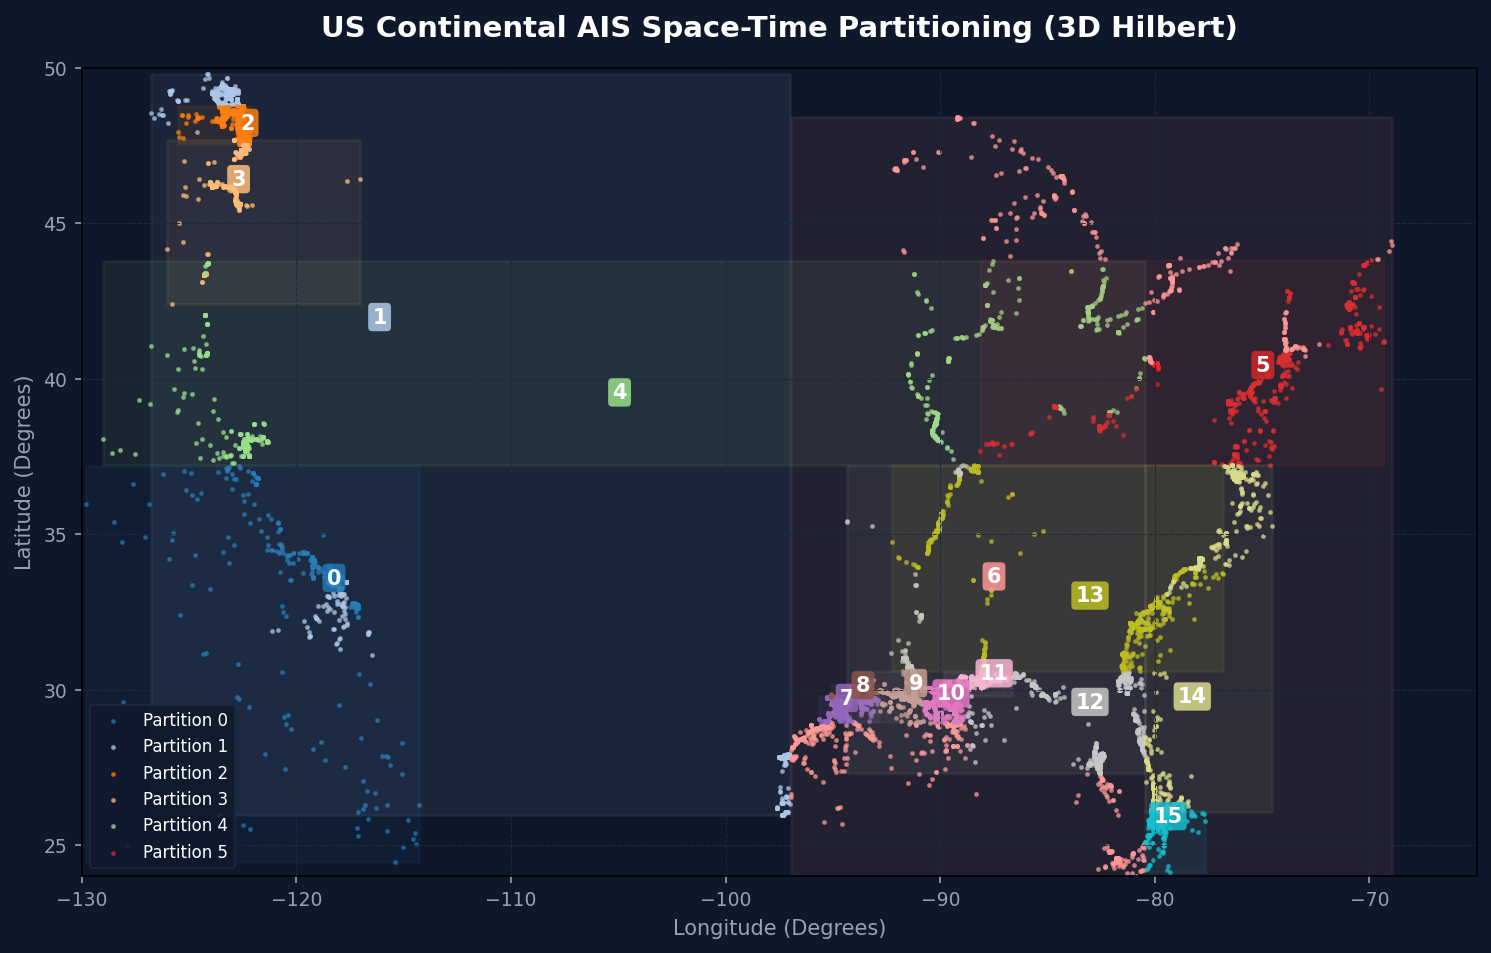
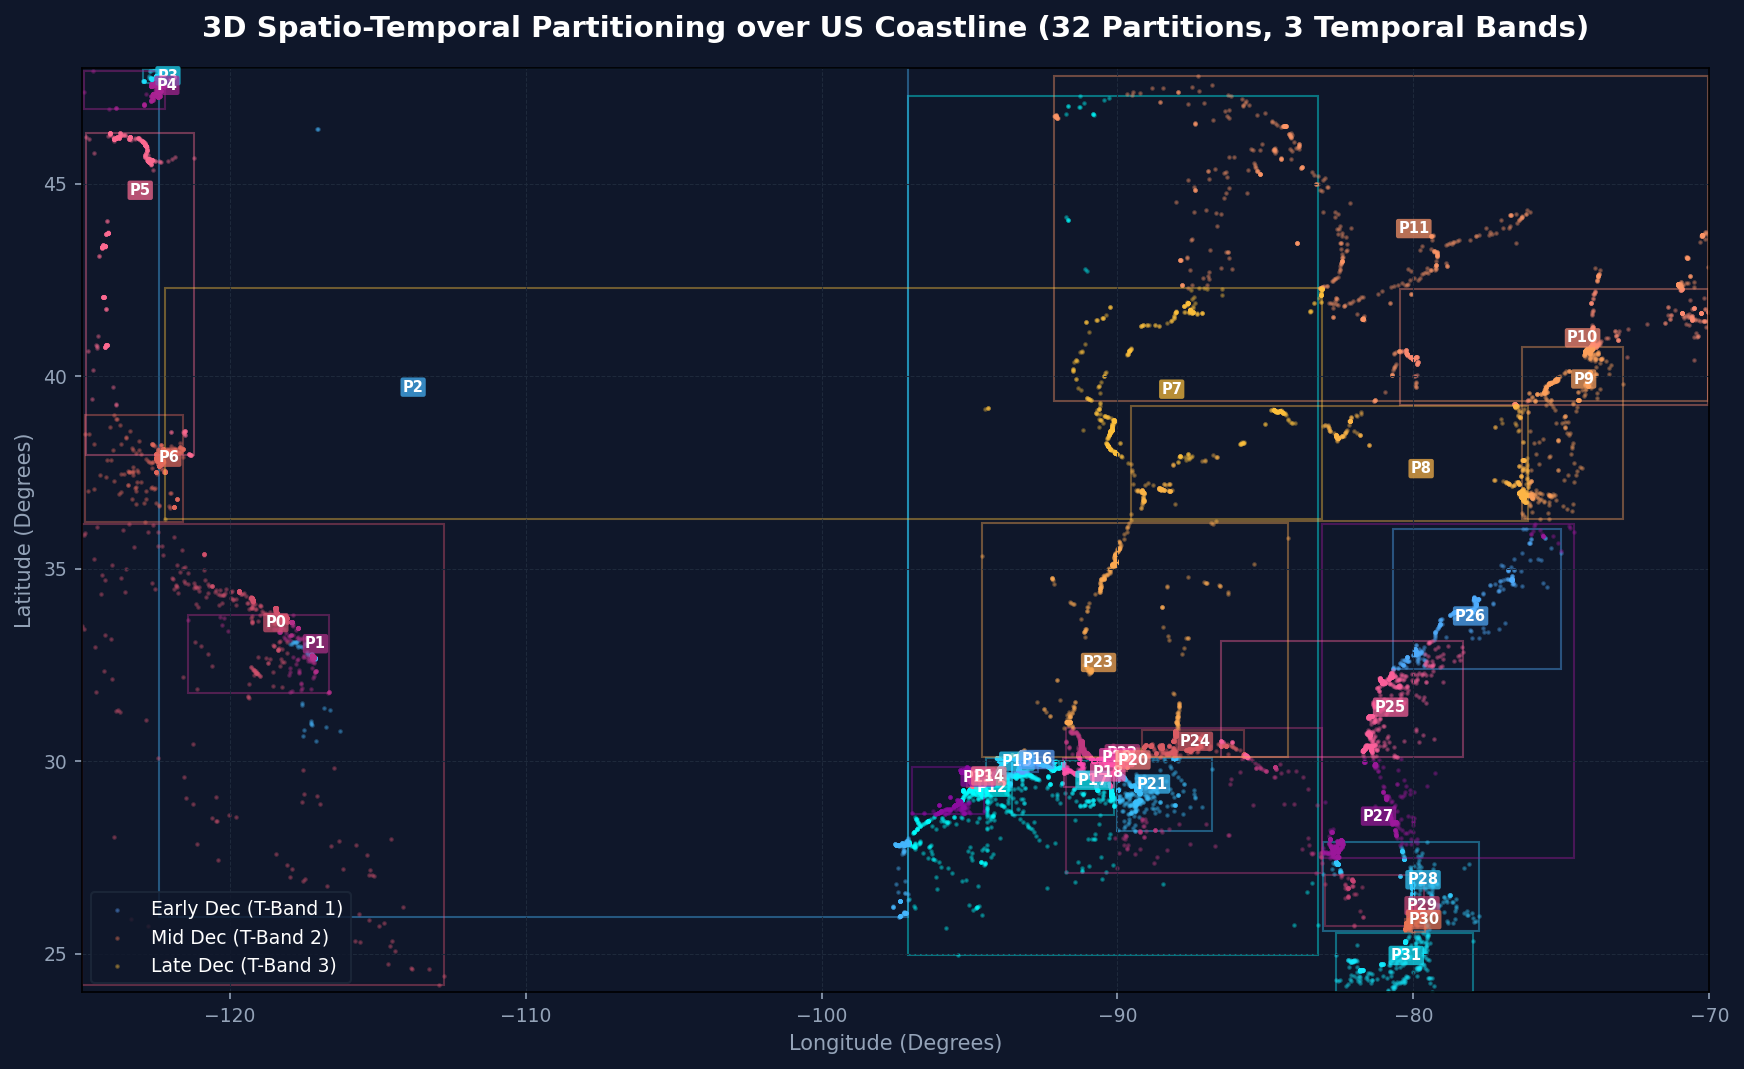
docs: use 32 bins and display multiple overlapping temporal bands on US Hilbert map

diff --git a/docs/images/generate_us_hilbert_map.py b/docs/images/generate_us_hilbert_map.py
@@ -4,9 +4,9 @@ import numpy as np
 import matplotlib.pyplot as plt
 from matplotlib.patches import Rectangle
 from pathlib import Path
+import sys
 
 # Import encode_3d_hilbert_numpy directly from the trajectory module
-import sys
 sys.path.append('/home/fbaart/src/ais-shader/src')
 from ais_shader.moving_dask.trajectory import encode_3d_hilbert_numpy
 
@@ -14,20 +14,18 @@ def main():
     dataset_path = '/projects/prjs2131/data/marine-cadastre/ais_2025_12'
     
     # 1. Read first file of the dataset to get actual coordinates
-    # We only need a subset of columns to keep it fast
     print("Reading sample coordinates from US AIS dataset...")
     pfile = list(Path(dataset_path).glob("*.parquet"))[0]
     df = pq.read_table(pfile, columns=['longitude', 'latitude', 'base_date_time']).to_pandas()
     
-    # Clean up empty values and sample 15,000 points for clear visualization
+    # Clean up empty values and sample 20,000 points
     df = df.dropna(subset=['longitude', 'latitude', 'base_date_time'])
-    # Filter to main US continental area to make the map look nice
-    df = df[(df['longitude'] >= -130) & (df['longitude'] <= -65) & (df['latitude'] >= 24) & (df['latitude'] <= 50)]
-    df = df.sample(n=min(15000, len(df)), random_state=42)
+    df = df[(df['longitude'] >= -125) & (df['longitude'] <= -70) & (df['latitude'] >= 24) & (df['latitude'] <= 48)]
+    df = df.sample(n=min(20000, len(df)), random_state=42)
     
-    # 2. Get global bounds from parquet statistics (fast)
-    x_min, x_max = -130.0, -65.0
-    y_min, y_max = 24.0, 50.0
+    # 2. Get global bounds
+    x_min, x_max = -125.0, -70.0
+    y_min, y_max = 24.0, 48.0
     df['base_date_time'] = pd.to_datetime(df['base_date_time'])
     t_min = df['base_date_time'].min()
     t_max = df['base_date_time'].max()
@@ -53,8 +51,8 @@ def main():
     coords = np.column_stack((x_int, y_int, t_int))
     df['hilbert_index'] = encode_3d_hilbert_numpy(coords, p)
     
-    # 4. Partition points using quantiles (simulate 16 partitions)
-    n_partitions = 16
+    # 4. Partition points using quantiles (32 partitions)
+    n_partitions = 32
     quantiles = np.linspace(0, 1, n_partitions + 1)
     divisions = list(df['hilbert_index'].quantile(quantiles))
     divisions = sorted(list(set(divisions)))
@@ -65,55 +63,85 @@ def main():
     df['partition'] = df['partition'].astype(int)
     
     # 5. Create Map Plot
-    fig, ax = plt.subplots(figsize=(12, 7), dpi=150)
+    fig, ax = plt.subplots(figsize=(14, 8), dpi=150)
     fig.patch.set_facecolor('#0f172a')  # Slate-900 background
     ax.set_facecolor('#0f172a')
     
-    # Get color palette
-    cmap = plt.get_cmap('tab20')
+    # Group partitions by their temporal centroids into 3 phases:
+    # Phase 1: Early Dec (Blue/Cyan), Phase 2: Mid Dec (Purple/Magenta), Phase 3: Late Dec (Yellow/Green)
+    part_times = []
+    for part_id in range(n_partitions):
+        part_df = df[df['partition'] == part_id]
+        if not part_df.empty:
+            mean_time = part_df['base_date_time'].mean()
+            part_times.append((part_id, mean_time))
+            
+    # Sort partitions temporally
+    part_times.sort(key=lambda x: x[1])
+    sorted_parts = [x[0] for x in part_times]
+    
+    # Divide into 3 temporal bands
+    n_valid = len(sorted_parts)
+    band_size = n_valid // 3
     
     # Plot partitions
-    for part_id in range(n_partitions):
+    for rank, part_id in enumerate(sorted_parts):
         part_df = df[df['partition'] == part_id]
         if part_df.empty:
             continue
             
-        color = cmap(part_id / n_partitions)
-        
-        # Plot points of this partition
+        # Determine temporal group and color palette
+        if rank < band_size:
+            # Early Phase (Cyan/Teal)
+            color = plt.get_cmap('cool')(rank / band_size * 0.4)
+            group_label = "Early Dec (T-Band 1)"
+        elif rank < 2 * band_size:
+            # Mid Phase (Magenta/Purple)
+            color = plt.get_cmap('plasma')(0.3 + (rank - band_size) / band_size * 0.4)
+            group_label = "Mid Dec (T-Band 2)"
+        else:
+            # Late Phase (Orange/Yellow/Green)
+            color = plt.get_cmap('spring')((rank - 2*band_size) / (n_valid - 2*band_size) * 0.5 + 0.3)
+            group_label = "Late Dec (T-Band 3)"
+            
+        # Plot points of this partition (small dots)
         ax.scatter(part_df['longitude'], part_df['latitude'], 
-                   color=color, s=2, alpha=0.6, 
-                   label=f'Partition {part_id}' if part_id < 6 else "") # Avoid legend bloat
+                   color=color, s=1.5, alpha=0.3, 
+                   label=group_label if f"printed_{group_label}" not in locals() else "")
+        locals()[f"printed_{group_label}"] = True
         
-        # Compute spatial bounding box for this partition
+        # Compute spatial bounding box
         px_min, px_max = part_df['longitude'].min(), part_df['longitude'].max()
         py_min, py_max = part_df['latitude'].min(), part_df['latitude'].max()
         
-        # Draw bounding box for partition
+        # Draw bounding box (overlapping translucent grids)
         rect = Rectangle((px_min, py_min), px_max - px_min, py_max - py_min,
-                         linewidth=1.2, edgecolor=color, facecolor=color, alpha=0.08, linestyle='-')
+                         linewidth=1.0, edgecolor=color, facecolor='none', alpha=0.4, linestyle='-')
         ax.add_patch(rect)
         
         # Draw label at partition centroid
         cx = part_df['longitude'].mean()
         cy = part_df['latitude'].mean()
-        ax.text(cx, cy, str(part_id), color='white', fontsize=10, weight='bold',
-                bbox=dict(facecolor=color, edgecolor='none', boxstyle='round,pad=0.2', alpha=0.85))
+        ax.text(cx, cy, f"P{part_id}", color='white', fontsize=7, weight='bold',
+                bbox=dict(facecolor=color, edgecolor='none', boxstyle='round,pad=0.15', alpha=0.7))
                 
     # Labels & Title
-    ax.set_title('US Continental AIS Space-Time Partitioning (3D Hilbert)', color='white', fontsize=14, weight='bold', pad=15)
+    ax.set_title('3D Spatio-Temporal Partitioning over US Coastline (32 Partitions, 3 Temporal Bands)', color='white', fontsize=14, weight='bold', pad=15)
     ax.set_xlabel('Longitude (Degrees)', color='#94a3b8')
     ax.set_ylabel('Latitude (Degrees)', color='#94a3b8')
     
-    ax.set_xlim(-130, -65)
-    ax.set_ylim(24, 50)
+    ax.set_xlim(-125, -70)
+    ax.set_ylim(24, 48)
     
     # Grid and Style
     ax.grid(True, color='#1e293b', linestyle='--', linewidth=0.5)
     ax.tick_params(colors='#94a3b8', labelsize=9)
     
-    # Show legend
-    legend = ax.legend(facecolor='#0f172a', edgecolor='#1e293b', labelcolor='white', loc='lower left', prop={'size': 8})
+    # Legend
+    # Filter unique legend items
+    handles, labels = ax.get_legend_handles_labels()
+    by_label = dict(zip(labels, handles))
+    legend = ax.legend(by_label.values(), by_label.keys(), facecolor='#0f172a', edgecolor='#1e293b', labelcolor='white', loc='lower left', prop={'size': 9})
     if legend:
         legend.get_frame().set_alpha(0.8)
         
@@ -122,7 +150,7 @@ def main():
     out_path = out_dir / 'us_hilbert_spaces.png'
     plt.savefig(out_path, facecolor=fig.get_facecolor(), edgecolor='none', bbox_inches='tight')
     plt.close()
-    print(f"Successfully generated US partitioning visualization at: {out_path}")
+    print(f"Successfully generated 3D overlapping US partitioning visualization at: {out_path}")
 
 if __name__ == '__main__':
     main()